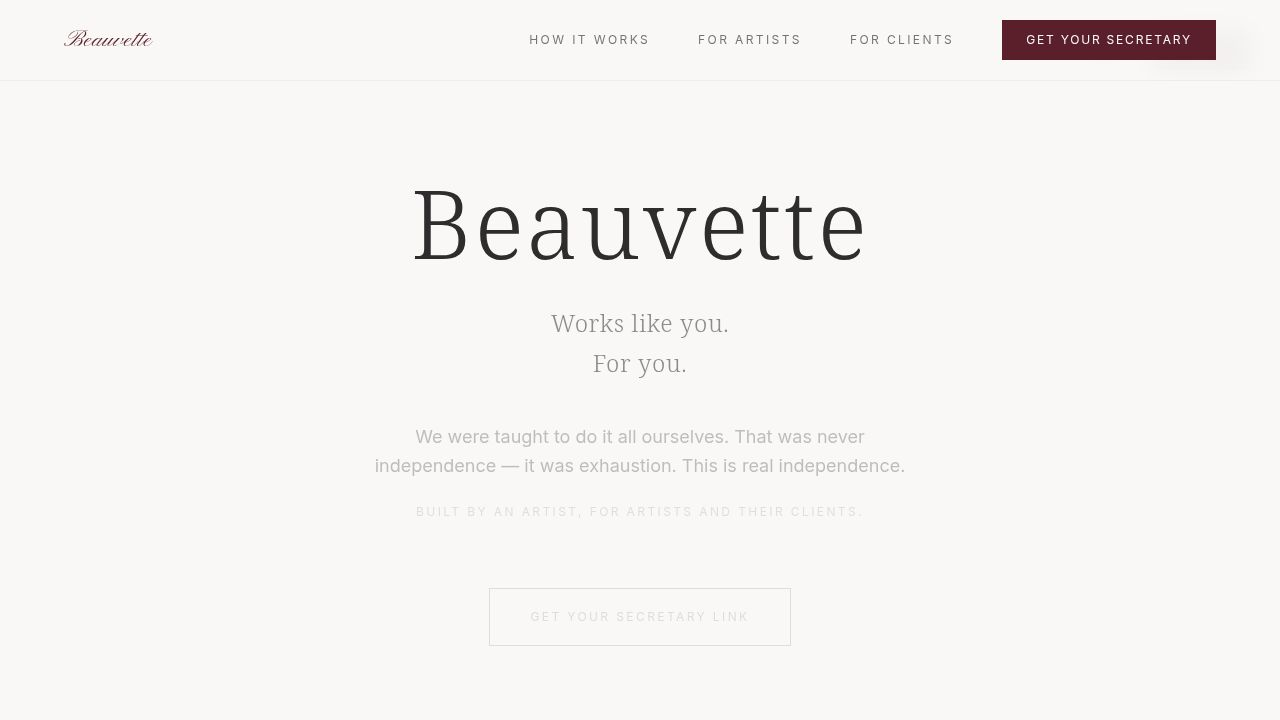
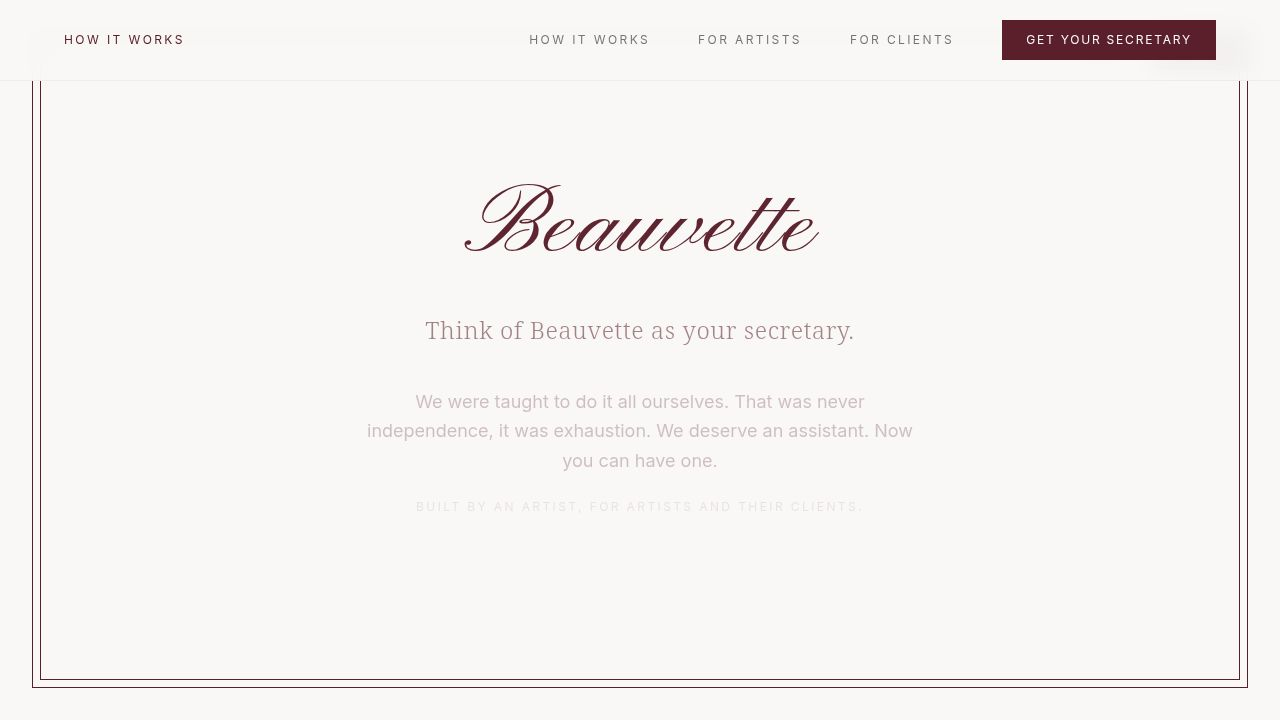
Update how clients are directed to book services
Modify the "How it works" section to reflect an embeddable form and direct inquiry links, removing direct Beauvette URL mentions from the client-facing flow.

Replit-Commit-Author: Agent
Replit-Commit-Session-Id: 9a908536-ceaf-424b-a450-6e8c8a214cbe
Replit-Commit-Checkpoint-Type: full_checkpoint
Replit-Commit-Event-Id: f2f4a491-603d-4f18-9ca4-3df0d2f9f9a9
Replit-Commit-Screenshot-Url: https://storage.googleapis.com/screenshot-production-us-central1/e8599704-1e72-4097-8c86-37ef455a3ec6/9a908536-ceaf-424b-a450-6e8c8a214cbe/0PtzOxd

diff --git a/client/src/pages/Landing.tsx b/client/src/pages/Landing.tsx
@@ -23,21 +23,21 @@ const CONTENT = {
     steps: [
       {
         number: "01",
-        title: "Sign up and get your link",
-        body: "Enter your business name. Your name becomes your URL: beauvette.app/inquire/your-business-name",
-        subBody: "Share it in emails, DMs, or your Instagram bio."
+        title: "Get your embed code",
+        body: "Sign up with your business name. Get a form action URL to add to your existing website contact form.",
+        subBody: "Invisible to clients. Your branding stays intact."
       },
       {
         number: "02",
-        title: "Embed it on your website",
-        body: "Add our form action URL to your existing contact form. Invisible to clients, keeps your branding.",
-        subBody: "No new website needed. Works with what you have."
+        title: "Get your email link",
+        body: "When someone emails you about booking, send them your direct inquiry link.",
+        subBody: "One link. Every conversation. Organized."
       },
       {
         number: "03",
-        title: "All inquiries in one place",
-        body: "Every inquiry routes to your dashboard. Accept, refer, or decline. Your clients never need to create an account.",
-        subBody: "Zero friction. Just tokenized links that work."
+        title: "Manage from your dashboard",
+        body: "All inquiries flow to one place. Accept, refer, or decline. Clients never create accounts.",
+        subBody: "Tokenized links handle everything."
       }
     ]
   },
